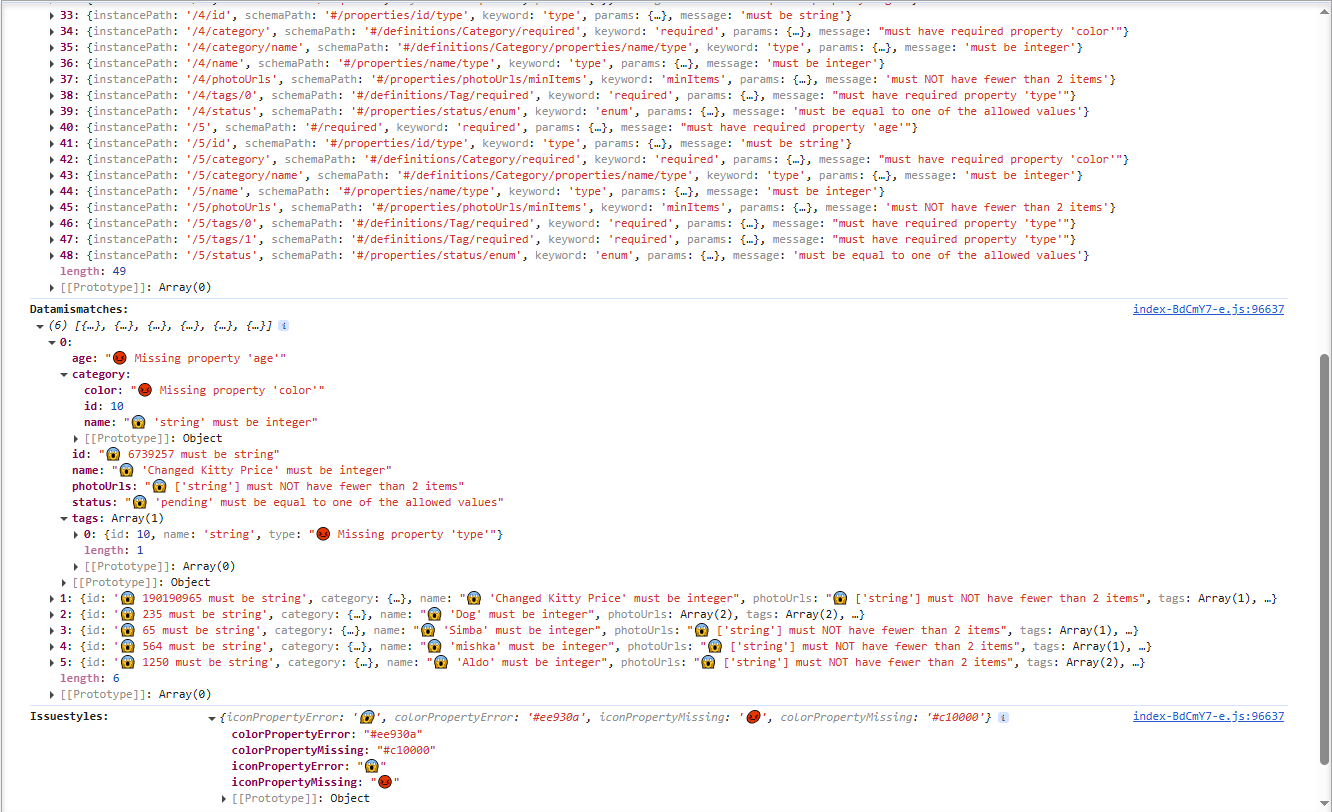
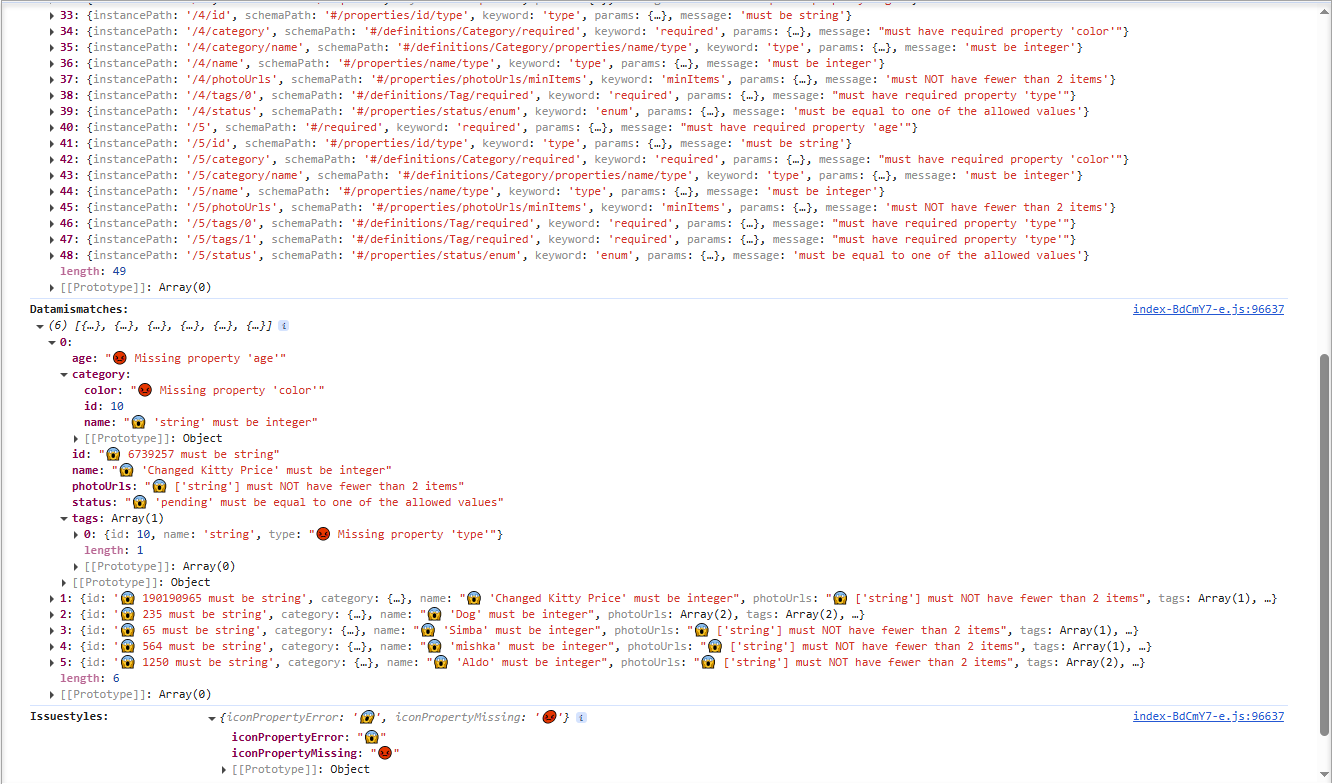
Update overview image and API documentation

diff --git a/src/index.d.ts b/src/index.d.ts
@@ -8,26 +8,19 @@
  * 
  * @public
  * 
- * @param data - The data to be validated. This can be any JavaScript object or value.
- * @param schema - The schema to validate against. Supported formats include plain JSON schema, 
- * Swagger, and OpenAPI documents.
- * @param path - An optional object specifying the path to the schema definition in a Swagger 
- * or OpenAPI document. This includes the endpoint, HTTP method, and status code. If the schema 
- * is a plain JSON schema, this parameter is not required.
+ * @param {any} data - The data to be validated.
+ * @param {object} schema - The schema to validate against. Supported formats are plain JSON schema, Swagger, and OpenAPI documents. See https://ajv.js.org/json-schema.html for more information.
+ * @param {object} [path] - The path object to the schema definition in a Swagger or OpenAPI document. Not required if the schema is a plain JSON schema.
+ * @param {string} [path.endpoint] - The endpoint path. Required if the schema is a Swagger or OpenAPI document.
+ * @param {string} [path.method] - The HTTP method. If not provided, it will use 'GET'.
+ * @param {integer} [path.status] - The response status code. If not provided, it will use 200.
  * 
- * @returns An object containing the validation results:
- * - `errors`: An array of error objects if validation fails as provided by the standard Ajv validator, or `null` if validation succeeds.
- * - `dataMismatches`: An object detailing any mismatches between the data and the schema.
- * - `issueStyles`: An object containing style information for displaying validation issues, including icons and colors for property errors and missing properties.
- *        issueStyles = {
- *            iconPropertyError: '😱',
- *            colorPropertyError: 'ee930a',
- *            iconPropertyMissing: '😡',
- *            colorPropertyMissing: 'c10000'
- *        }
- * 
- * @throws {Error} If any of the required parameters (`data` or `schema`) are missing, or if the 
- * schema or schema definition cannot be found.
+ * @returns {object} - An object containing:
+ *   - errors: An array of validation errors as provided by Ajv, or null if the data is valid against the schema.
+ *   - dataMismatches: The original response data with all schema mismatches flagged directly.
+ *   - issueStyles: An object with the icons used to flag the issues. This could be useful if wanted to create legend in the application validating the schema.
+ *                  Includes the properties: iconPropertyError, and iconPropertyMissing.
+ * @throws {Error} - If any of the required parameters are missing or if the schema or schema definition is not found.
  */
 
 export declare function validateSchema(

diff --git a/src/index.js b/src/index.js
@@ -18,9 +18,7 @@ addFormats(ajv)
 
 const issueStyles = {
     iconPropertyError: '😱',
-    colorPropertyError: '#ee930a',
-    iconPropertyMissing: '😡',
-    colorPropertyMissing: '#c10000'
+    iconPropertyMissing: '😡'
 }
 
 const errorInvalidSchema = `You must provide a valid schema!`
@@ -45,8 +43,8 @@ const errorInvalidSchemaParameters = `You must provide valid schema parameters (
  * @returns {object} - An object containing:
  *   - errors: An array of validation errors as provided by Ajv, or null if the data is valid against the schema.
  *   - dataMismatches: The original response data with all schema mismatches flagged directly.
- *   - issueStyles: An object with the icons and HEX colors used to flag the issues. This could be useful if wanted to create legend in the application validating the schema.
- *                  Includes the properties: iconPropertyError, colorPropertyError, iconPropertyMissing, and colorPropertyMissing.
+ *   - issueStyles: An object with the icons used to flag the issues. This could be useful if wanted to create legend in the application validating the schema.
+ *                  Includes the properties: iconPropertyError, and iconPropertyMissing.
  * @throws {Error} - If any of the required parameters are missing or if the schema or schema definition is not found.
  *
  * @example
@@ -81,7 +79,7 @@ const errorInvalidSchemaParameters = `You must provide valid schema parameters (
  *   const validationResult = validateSchema(data, schema, path);
  *   console.log(validationResult.errors); // Array of validation errors
  *   console.log(validationResult.dataMismatches); // Data with mismatches flagged
- *   console.log(validationResult.issueStyles); // Icons and colors used for mismatches
+ *   console.log(validationResult.issueStyles); // Icons used for mismatches
  * });
  */
 export const validateSchema = (data, schema, path) => {

diff --git a/README.md b/README.md
@@ -99,11 +99,9 @@ An object containing the following properties:
 
 - **`issueStyles`**  
   - **Type:** `object`  
-  - **Description:** Contains icons and HEX colors used to flag issues. Useful for creating a legend in applications validating the schema. Includes the following properties:
+  - **Description:** Contains icons used to flag issues. Useful for creating a legend in applications validating the schema. Includes the following properties:
     - **`iconPropertyError`**: Icon for property errors.
-    - **`colorPropertyError`**: HEX color for property errors.
     - **`iconPropertyMissing`**: Icon for missing properties.
-    - **`colorPropertyMissing`**: HEX color for missing properties.
 
 #### Throws
 - **Error:** If any of the required parameters are missing or if the schema or schema definition cannot be found.
